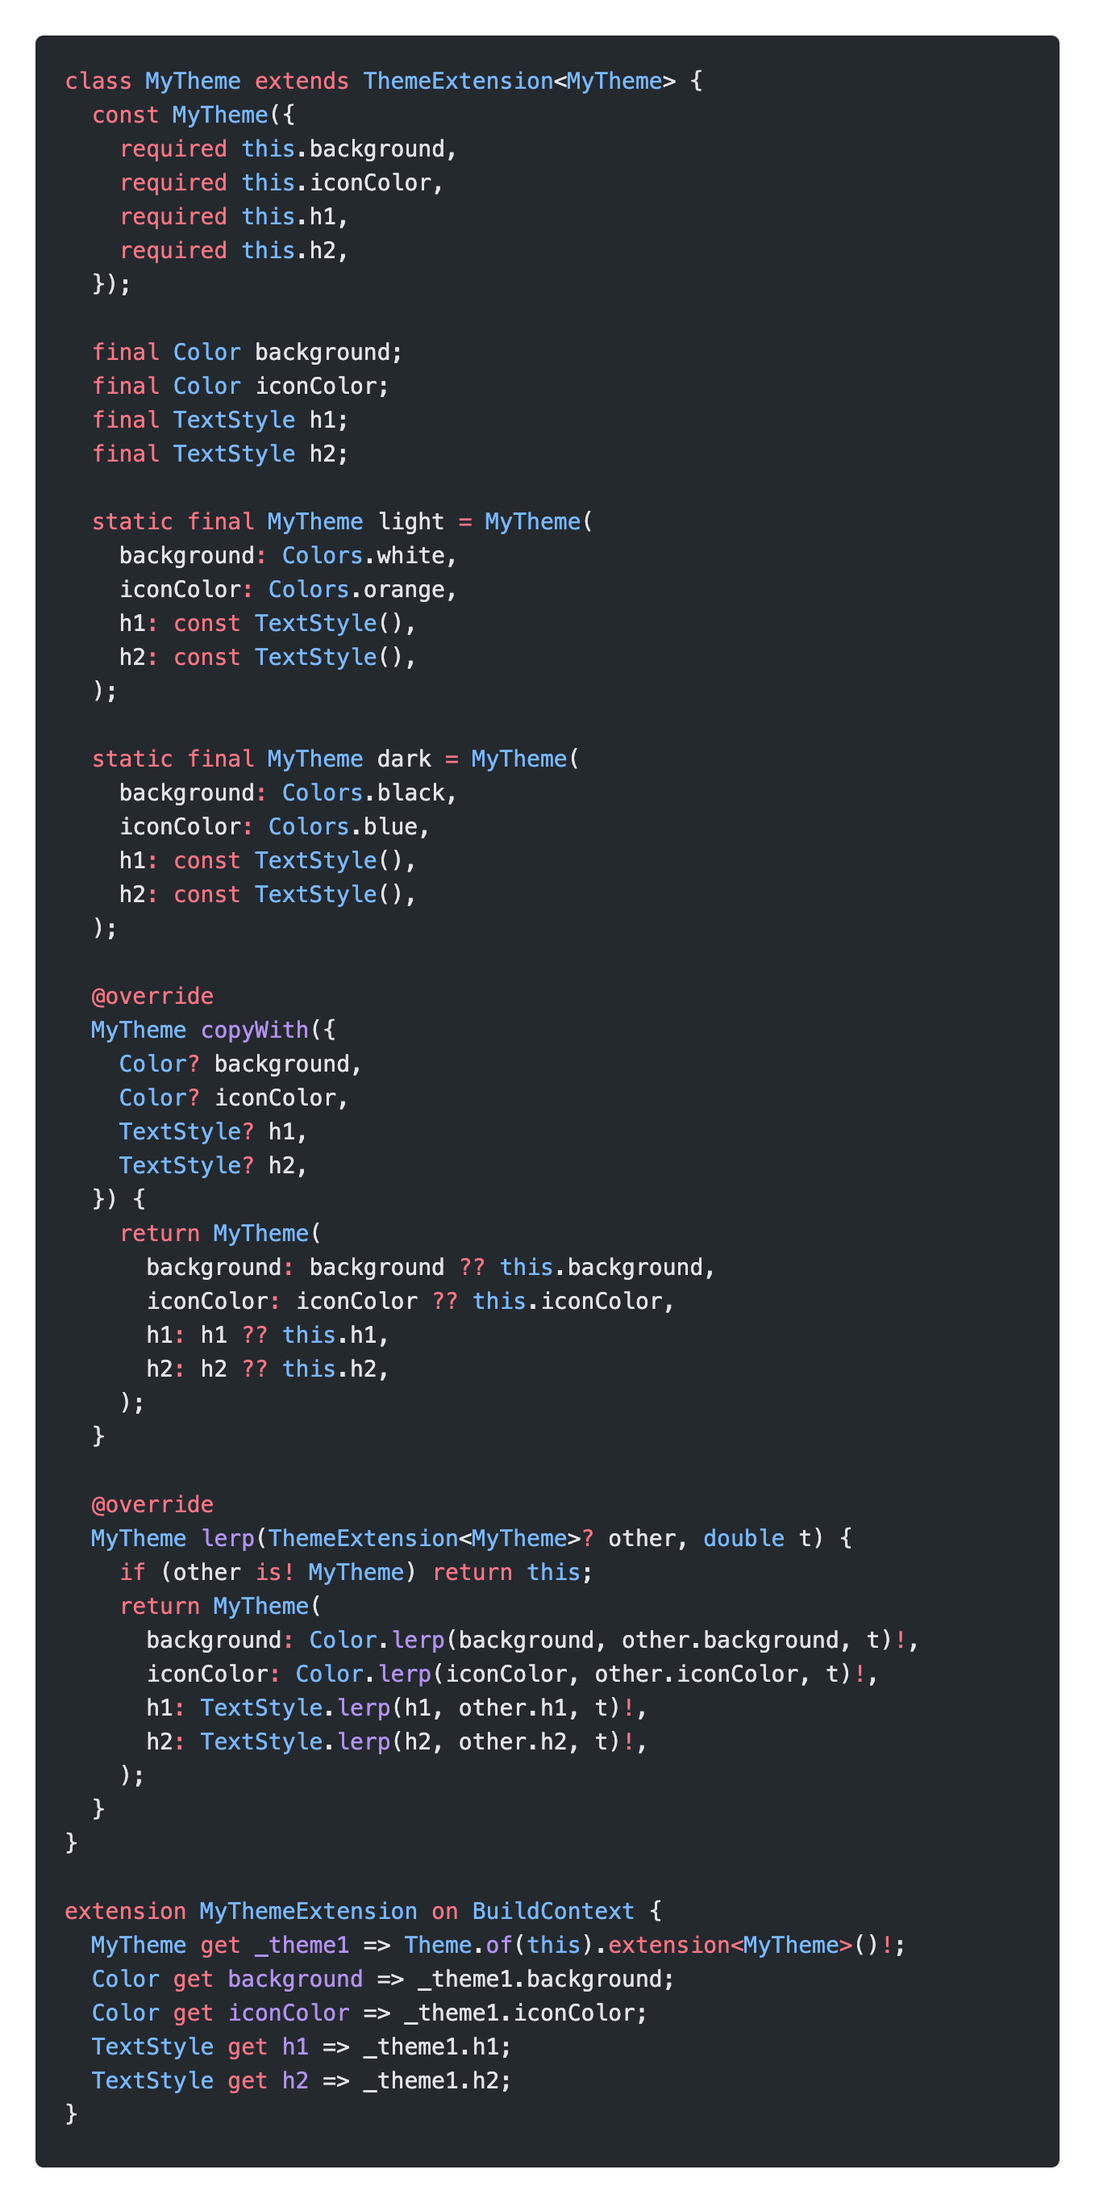
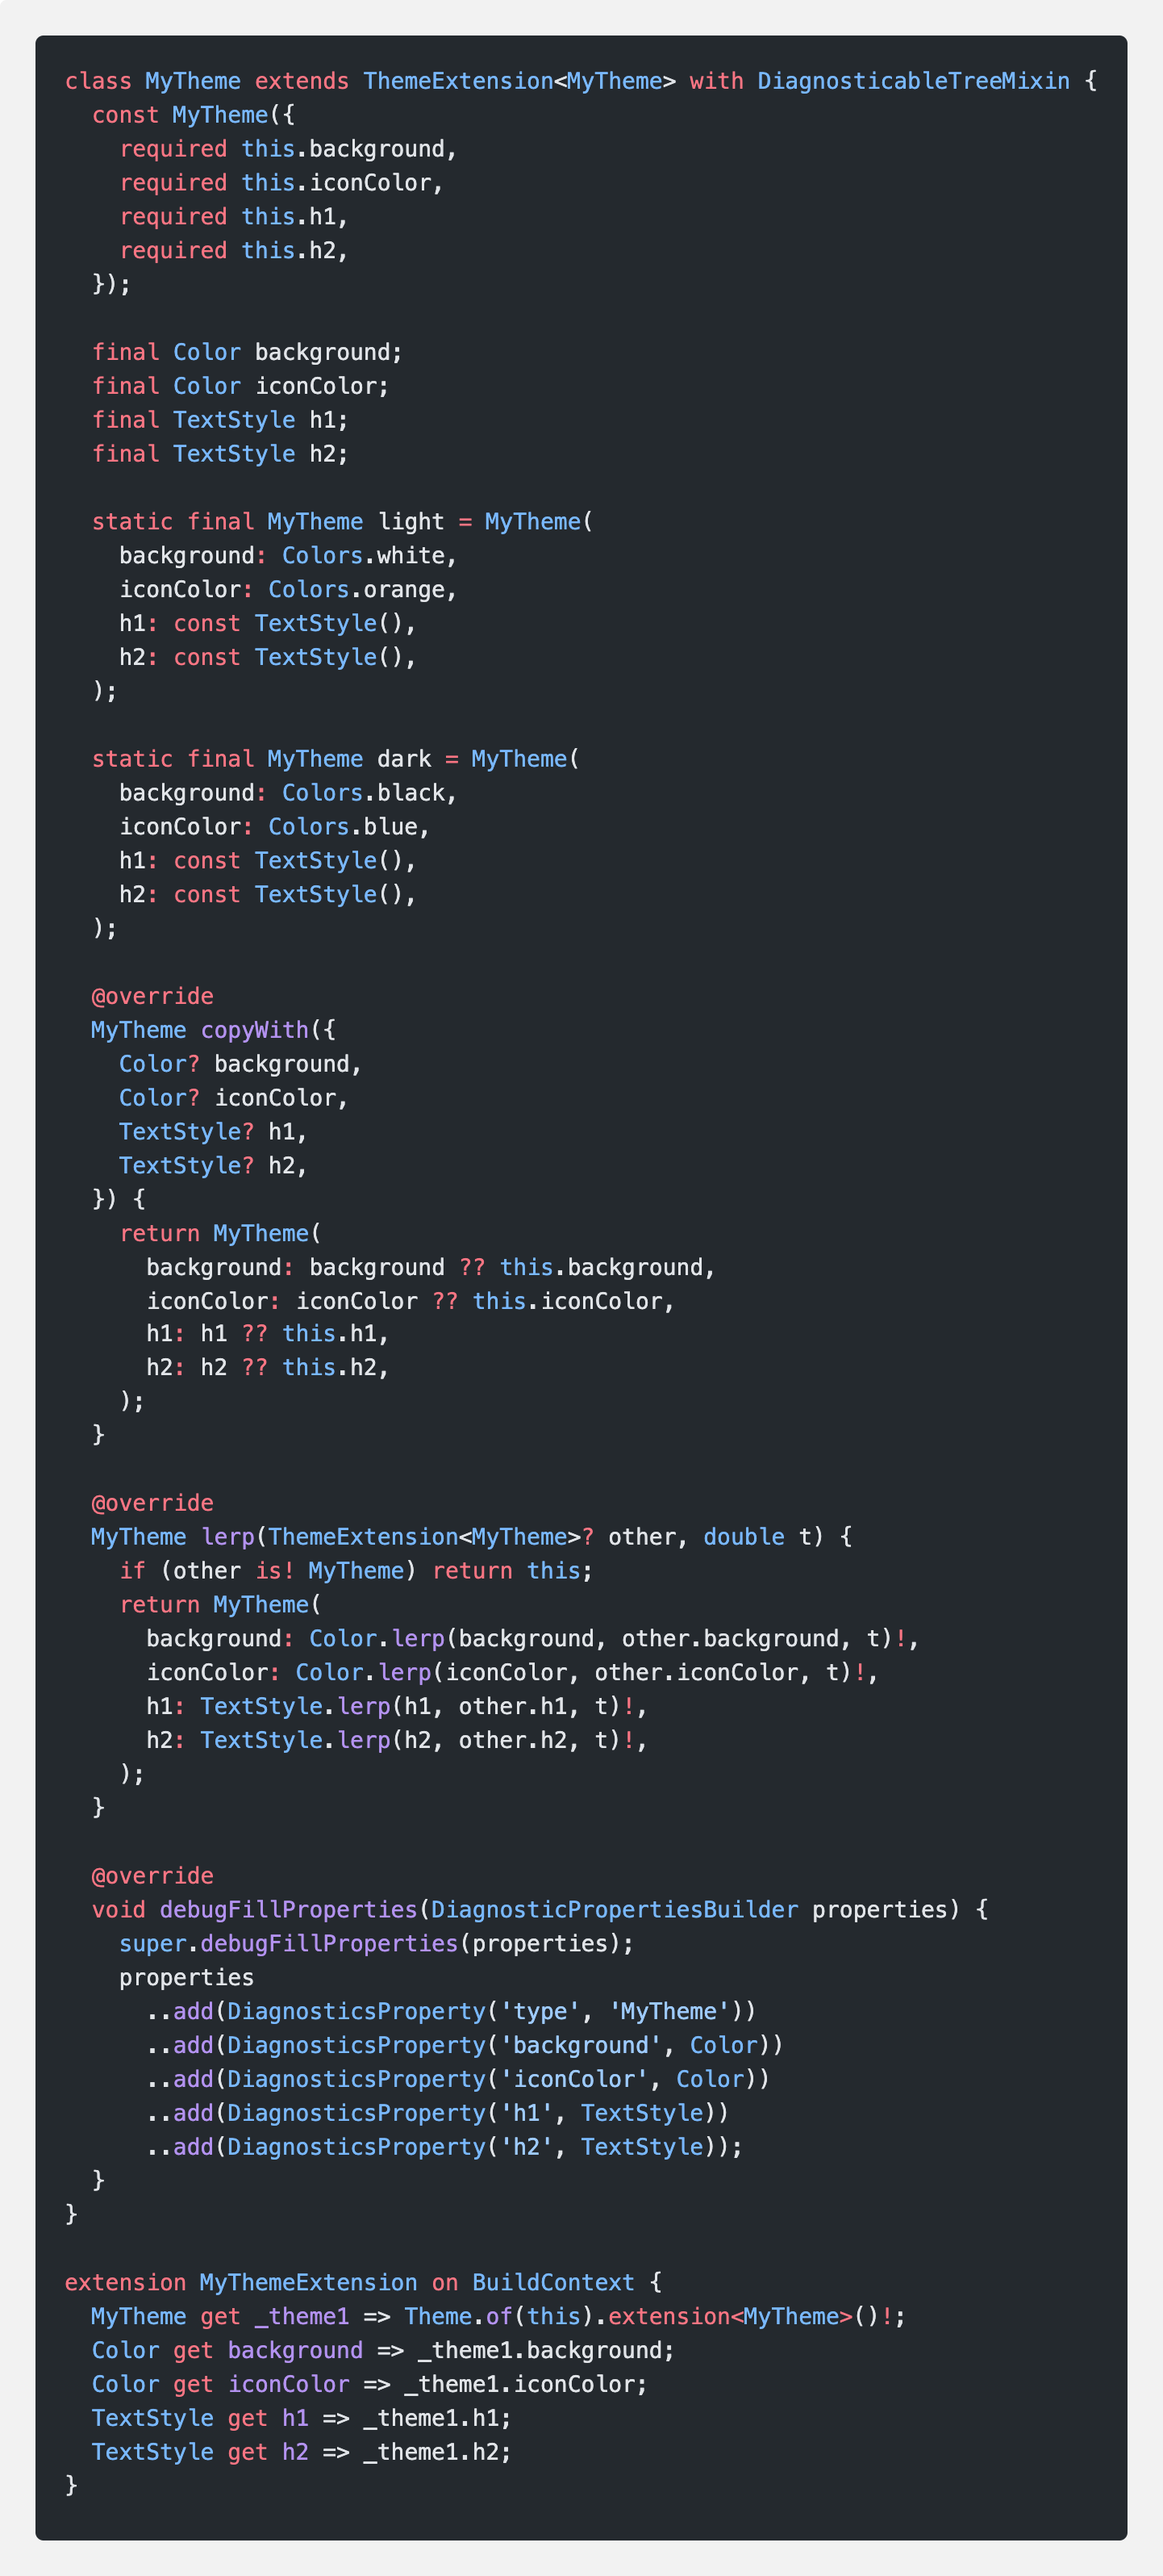
Add support for flutter diagnosticable

diff --git a/packages/theme_tailor/lib/src/util/import_finder.dart b/packages/theme_tailor/lib/src/util/import_finder.dart
@@ -1,0 +1,112 @@
+import 'package:analyzer/dart/element/element.dart';
+
+typedef Matcher<T> = bool Function(T e);
+
+typedef ElementMatcher = Matcher<Element>;
+typedef LibraryMatcher = Matcher<LibraryElement>;
+
+ElementMatcher isClass(String name) {
+  return (e) => e is ClassElement && e.name == name;
+}
+
+ElementMatcher isWithinLibrary(String name) {
+  return (e) => e.librarySource!.fullName.startsWith('/$name/');
+}
+
+class ImportFinder {
+  const ImportFinder({
+    required this.lib,
+    required this.whereElement,
+    this.whereLibrary,
+  });
+
+  final LibraryElement lib;
+  final ElementMatcher whereElement;
+  final LibraryMatcher? whereLibrary;
+
+  /// based on importedLibraries from analyzer-4.1.0
+  /// lib/src/dart/element/element.dart
+  bool recursiveSearch() {
+    final libraries = <LibraryElementWithVisibility>{};
+    for (final import in lib.imports) {
+      final library = import.importedLibrary;
+      if (library != null) {
+        libraries.add(LibraryElementWithVisibility.root(
+          library,
+          import.combinators,
+        ));
+      }
+    }
+
+    return libraries.any(_isExportedRecursivaly);
+  }
+
+  bool _isExportedRecursivaly(LibraryElementWithVisibility lib) {
+    if (lib.isRelevant(whereLibrary)) {
+      if (lib.libTopLevelExportElements.any(whereElement)) {
+        return true;
+      }
+    }
+
+    return lib.exportedLibraries.any(_isExportedRecursivaly);
+  }
+}
+
+class LibraryElementWithVisibility {
+  LibraryElementWithVisibility(
+    this.lib,
+    Set<String> shown,
+    Set<String> hidden,
+    List<NamespaceCombinator> combinators,
+  )   : shown = shown.union(combinators.shown),
+        hidden = hidden.union(combinators.hidden);
+
+  LibraryElementWithVisibility.root(
+    LibraryElement lib,
+    List<NamespaceCombinator> combinators,
+  ) : this(lib, {}, {}, combinators);
+
+  final LibraryElement lib;
+  final Set<String> shown;
+  final Set<String> hidden;
+
+  bool isExported(Element e) {
+    if (hidden.isEmpty && shown.isEmpty) return true;
+    if (shown.isNotEmpty) return shown.contains(e.name);
+    return !hidden.contains(e.name);
+  }
+
+  bool isRelevant(LibraryMatcher? whereLibrary) {
+    return whereLibrary?.call(lib) ?? true;
+  }
+
+  Iterable<Element> get libTopLevelExportElements {
+    return lib.topLevelElements.where(isExported);
+  }
+
+  /// based on exportedLibraries from analyzer-4.1.0
+  /// lib/src/dart/element/element.dart
+  Iterable<LibraryElementWithVisibility> get exportedLibraries {
+    final libraries = <LibraryElementWithVisibility>{};
+    for (final export in lib.exports) {
+      final library = export.exportedLibrary;
+      if (library != null) {
+        libraries.add(LibraryElementWithVisibility(
+          library,
+          shown,
+          hidden,
+          export.combinators,
+        ));
+      }
+    }
+    return libraries.toList(growable: false);
+  }
+}
+
+extension on Iterable<NamespaceCombinator> {
+  Set<String> get hidden =>
+      whereType<HideElementCombinator>().expand((e) => e.hiddenNames).toSet();
+
+  Set<String> get shown =>
+      whereType<ShowElementCombinator>().expand((e) => e.shownNames).toSet();
+}

diff --git a/packages/theme_tailor/lib/src/template/theme_class_template.dart b/packages/theme_tailor/lib/src/template/theme_class_template.dart
@@ -8,6 +8,15 @@ class ThemeClassTemplate {
   final ThemeClassConfig config;
   final StringFormat fmt;
 
+  String _classTypesDeclaration() {
+    final mixins = [
+      if (config.isFlutterDiagnosticable) 'DiagnosticableTreeMixin'
+    ];
+    final mixinsString = mixins.isEmpty ? '' : ' with ${mixins.join(',')}';
+
+    return 'extends ThemeExtension<${config.className}>$mixinsString';
+  }
+
   String _constructorAndParams() {
     final constructorBuffer = StringBuffer();
     final fieldsBuffer = StringBuffer();
@@ -23,7 +32,7 @@ class ThemeClassTemplate {
       return fieldsBuffer.toString();
     } else {
       return '''
-      ${config.returnType}({
+      ${config.className}({
         ${constructorBuffer.toString()}
       });
     
@@ -47,7 +56,7 @@ class ThemeClassTemplate {
   /// Template for one static theme
   String _themeTemplate(int index, String themeName, List<String> props) {
     final buffer = StringBuffer();
-    final returnType = config.returnType;
+    final returnType = config.className;
 
     for (final prop in props) {
       buffer.write('$prop: ${config.baseClassName}.$prop[$index],');
@@ -61,7 +70,7 @@ class ThemeClassTemplate {
   }
 
   String _copyWithMethod() {
-    final returnType = config.returnType;
+    final returnType = config.className;
     if (config.fields.isEmpty) {
       return '''
       @override
@@ -90,7 +99,7 @@ class ThemeClassTemplate {
   }
 
   String _lerpMethod() {
-    final returnType = config.returnType;
+    final returnType = config.className;
     final classParams = StringBuffer();
     config.fields.forEach((key, value) {
       if (value.implementsThemeExtension) {
@@ -114,20 +123,40 @@ class ThemeClassTemplate {
 
   String _jsonAnnotationFactory() {
     if (!config.annotationManager.hasJsonSerializable) return '';
-    return '''factory ${config.returnType}.fromJson(Map<String, dynamic> json) =>
-      _\$${config.returnType}FromJson(json);\n''';
+    return '''factory ${config.className}.fromJson(Map<String, dynamic> json) =>
+      _\$${config.className}FromJson(json);\n''';
+  }
+
+  String _debugFillPropertiesMethod() {
+    if (!config.isFlutterDiagnosticable) return '';
+
+    final diagnostics = [
+      for (final e in config.fields.entries)
+        "..add(DiagnosticsProperty('${e.key}', ${e.value.typeName}))",
+    ].join();
+
+    return '''
+    @override
+    void debugFillProperties(DiagnosticPropertiesBuilder properties) {
+      super.debugFillProperties(properties);
+      properties
+        ..add(DiagnosticsProperty('type', '${config.className}'))
+        $diagnostics;
+    }
+    ''';
   }
 
   @override
   String toString() {
     return '''
     ${config.annotationManager.expandClassAnnotations()}
-    class ${config.returnType} extends ThemeExtension<${config.returnType}> {
+    class ${config.className} ${_classTypesDeclaration()} {
       ${_constructorAndParams()}
       ${_jsonAnnotationFactory()}
       ${_generateThemes()}
       ${_copyWithMethod()}
       ${_lerpMethod()}
+      ${_debugFillPropertiesMethod()}
     }
     ''';
   }

diff --git a/packages/theme_tailor/lib/src/generator/theme_tailor_generator.dart b/packages/theme_tailor/lib/src/generator/theme_tailor_generator.dart
@@ -1,3 +1,5 @@
+import 'dart:async';
+
 import 'package:analyzer/dart/analysis/results.dart';
 import 'package:analyzer/dart/ast/ast.dart';
 import 'package:analyzer/dart/ast/visitor.dart';
@@ -17,6 +19,7 @@ import 'package:theme_tailor/src/util/extension/dart_type_extension.dart';
 import 'package:theme_tailor/src/util/extension/element_annotation_extension.dart';
 import 'package:theme_tailor/src/util/extension/element_extension.dart';
 import 'package:theme_tailor/src/util/extension/field_declaration_extension.dart';
+import 'package:theme_tailor/src/util/extension/library_element_extension.dart';
 import 'package:theme_tailor/src/util/extension/scope_extension.dart';
 import 'package:theme_tailor/src/util/string_format.dart';
 import 'package:theme_tailor/src/util/theme_encoder_helper.dart';
@@ -25,11 +28,11 @@ import 'package:theme_tailor_annotation/theme_tailor_annotation.dart';
 
 class ThemeTailorGenerator extends GeneratorForAnnotation<Tailor> {
   @override
-  String generateForAnnotatedElement(
+  Future<String> generateForAnnotatedElement(
     Element element,
     ConstantReader annotation,
     BuildStep buildStep,
-  ) {
+  ) async {
     if (element is! ClassElement || element is Enum) {
       throw InvalidGenerationSourceError(
         'Tailor can only annotate classes',
@@ -37,6 +40,9 @@ class ThemeTailorGenerator extends GeneratorForAnnotation<Tailor> {
         todo: 'Move @Tailor annotation above `class`',
       );
     }
+    final library = element.library;
+    print('${library.identifier} : ${library.hasFlutterDiagnosticableImport}');
+    final hasDiagnostics = library.hasFlutterDiagnosticableImport;
 
     const stringUtil = StringFormat();
 
@@ -102,12 +108,13 @@ class ThemeTailorGenerator extends GeneratorForAnnotation<Tailor> {
 
     final config = ThemeClassConfig(
       fields: tailorClassVisitor.fields,
-      returnType: stringUtil.themeClassName(className),
+      className: stringUtil.themeClassName(className),
       baseClassName: className,
       themes: themes,
       encoderManager: encoderDataManager,
       themeGetter: themeGetter,
       annotationManager: annotationDataManager,
+      isFlutterDiagnosticable: hasDiagnostics,
     );
 
     final generatorBuffer = StringBuffer()

diff --git a/packages/theme_tailor/lib/src/template/theme_extension_template.dart b/packages/theme_tailor/lib/src/template/theme_extension_template.dart
@@ -18,15 +18,15 @@ class ThemeExtensionTemplate {
 
     final extensionBody = StringBuffer();
 
-    final extensionName = '${config.returnType}${config.themeGetter.shortName}';
+    final extensionName = '${config.className}${config.themeGetter.shortName}';
     final themeGetterName = fmt
-        .typeAsVariableName(config.returnType, 'Theme')
+        .typeAsVariableName(config.className, 'Theme')
         .also((it) => extension.hasPublicThemeGetter ? it : fmt.asPrivate(it));
 
     extensionBody.write(GetterTemplate(
-      type: config.returnType,
+      type: config.className,
       name: themeGetterName,
-      accessor: extension.target.themeExtensionAccessor(config.returnType),
+      accessor: extension.target.themeExtensionAccessor(config.className),
     ));
 
     if (extension.hasGeneratedProps) {

diff --git a/packages/theme_tailor/lib/src/model/theme_class_config.dart b/packages/theme_tailor/lib/src/model/theme_class_config.dart
@@ -8,17 +8,19 @@ class ThemeClassConfig {
     required this.fields,
     required this.themes,
     required this.baseClassName,
-    required this.returnType,
+    required this.className,
     required this.encoderManager,
     required this.themeGetter,
     required this.annotationManager,
+    required this.isFlutterDiagnosticable,
   });
 
   final Map<String, Field> fields;
   final List<String> themes;
   final String baseClassName;
-  final String returnType;
+  final String className;
   final ThemeEncoderDataManager encoderManager;
   final ExtensionData themeGetter;
   final AnnotationDataManager annotationManager;
+  final bool isFlutterDiagnosticable;
 }

diff --git a/packages/theme_tailor/example/lib/theme_extension_in_field.dart b/packages/theme_tailor/example/lib/theme_extension_in_field.dart
@@ -45,8 +45,8 @@ class OtherThemeExtension extends ThemeExtension<OtherThemeExtension> {
       ThemeExtension<OtherThemeExtension>? other, double t) {
     if (other is! OtherThemeExtension) return this;
     return OtherThemeExtension(
-      floatingActionButtonColor:
-          t < 0.5 ? floatingActionButtonColor : other.floatingActionButtonColor,
+      floatingActionButtonColor: Color.lerp(
+          floatingActionButtonColor, other.floatingActionButtonColor, t)!,
     );
   }
 }

diff --git a/packages/theme_tailor/example/lib/diagnosticable.dart b/packages/theme_tailor/example/lib/diagnosticable.dart
@@ -1,0 +1,12 @@
+/// Import flutter foundation to generate debugFillProperties
+import 'package:example/diagnosticable_lib.dart';
+
+part 'diagnosticable.tailor.dart';
+
+@tailor
+class _$MyTheme {
+  static List<Color> background = [Colors.white, Colors.black];
+  static List<Color> iconColor = [Colors.orange, Colors.blue];
+  static List<TextStyle> h1 = const [TextStyle(), TextStyle()];
+  static List<TextStyle> h2 = const [TextStyle(), TextStyle()];
+}

diff --git a/packages/theme_tailor/lib/src/util/extension/library_element_extension.dart b/packages/theme_tailor/lib/src/util/extension/library_element_extension.dart
@@ -1,0 +1,12 @@
+import 'package:analyzer/dart/element/element.dart';
+import 'package:theme_tailor/src/util/import_finder.dart';
+
+extension LibraryElementExtension on LibraryElement {
+  bool get hasFlutterDiagnosticableImport {
+    return ImportFinder(
+      lib: this,
+      whereElement: isClass('Diagnosticable'),
+      whereLibrary: isWithinLibrary('flutter'),
+    ).recursiveSearch();
+  }
+}

diff --git a/packages/theme_tailor/example/lib/diagnosticable_lib.dart b/packages/theme_tailor/example/lib/diagnosticable_lib.dart
@@ -1,0 +1,5 @@
+library diagnosticable;
+
+export 'package:flutter/foundation.dart';
+export 'package:flutter/material.dart';
+export 'package:theme_tailor_annotation/theme_tailor_annotation.dart';
